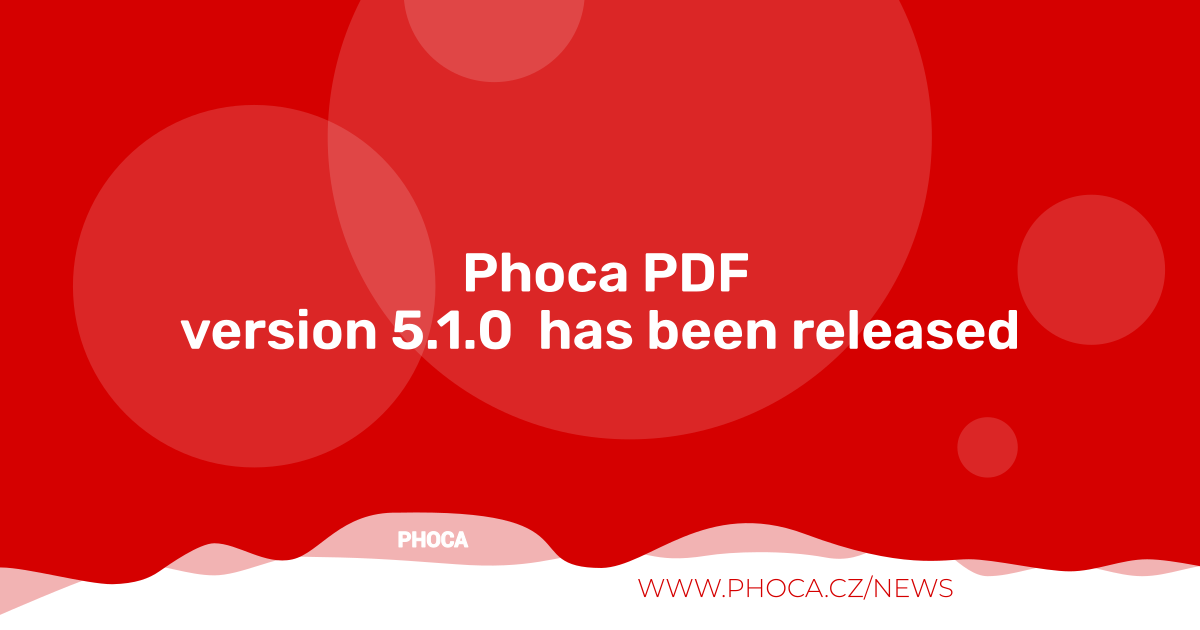
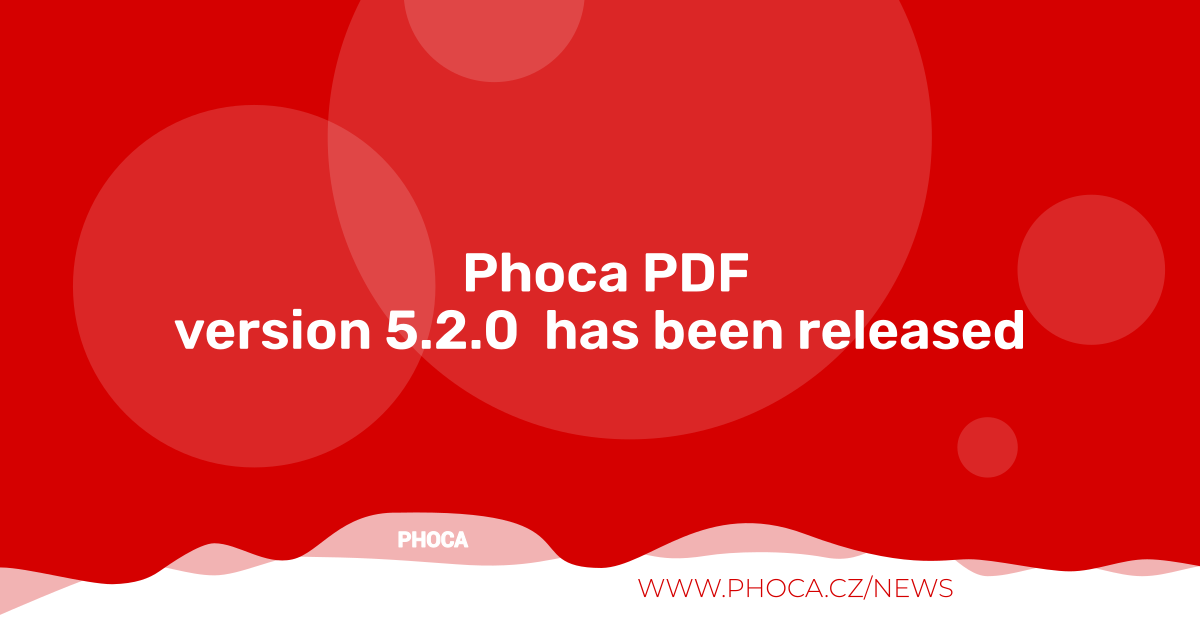
5.2.0

Changed region(s): [[0.1233, 0.4825, 0.8633, 0.573]]

diff --git a/admin/helpers/phocapdfrender.php b/admin/helpers/phocapdfrender.php
@@ -398,5 +398,16 @@ class PhocaPDFRender extends Document
 		if(!defined('PDF_FONT_SIZE_DATA'))		{define('PDF_FONT_SIZE_DATA', 8);}// data font size
 		if(!defined('PDF_IMAGE_SCALE_RATIO'))	{define('PDF_IMAGE_SCALE_RATIO', 4);}// Ratio used to scale the images
 		if(!defined('K_TCPDF_CALLS_IN_HTML'))	{define('K_TCPDF_CALLS_IN_HTML', true);}
+
+
+        $option = Factory::getApplication()->input->getCmd('option');
+
+        if ($option == 'com_phocacart') {
+            if(!defined('K_TCPDF_CALLS_IN_HTML'))	{define('K_TCPDF_CALLS_IN_HTML', true);}
+            if(!defined('K_ALLOWED_TCPDF_TAGS'))	{define('K_ALLOWED_TCPDF_TAGS', '|AddPage|Image|ImageSVG|writeHTMLCell|write1DBarcode|write2DBarcode|');}
+        } else {
+            if(!defined('K_TCPDF_CALLS_IN_HTML'))	{define('K_TCPDF_CALLS_IN_HTML', false);}
+            if(!defined('K_ALLOWED_TCPDF_TAGS'))	{define('K_ALLOWED_TCPDF_TAGS', '');}
+        }
     }
 }

diff --git a/admin/assets/tcpdf/tcpdf.php b/admin/assets/tcpdf/tcpdf.php
@@ -17292,12 +17292,12 @@ class TCPDF {
 	}
 
 
-	// PHOCAEDIT
+	// PHOCAEDIT OBSOLETE
 	public function serializeTCPDFtagParameters($data) {
 		return $this->serializeTCPDFtag($data);
 	}
 
-	// PHOCAEDIT
+	// PHOCAEDIT OBSOLETE
 	protected function unserializeTCPDFtagParameters($data) {
 		return $this->unserializeTCPDFtag($data);
 	}

diff --git a/README.MD b/README.MD
@@ -69,7 +69,7 @@ Phoca PDF is Joomla! CMS component. It helps to set and create PDF documents in 
 
 ## Version (Joomla! 5.x)
 
-5.1.0
+5.2.0
 
 
 
